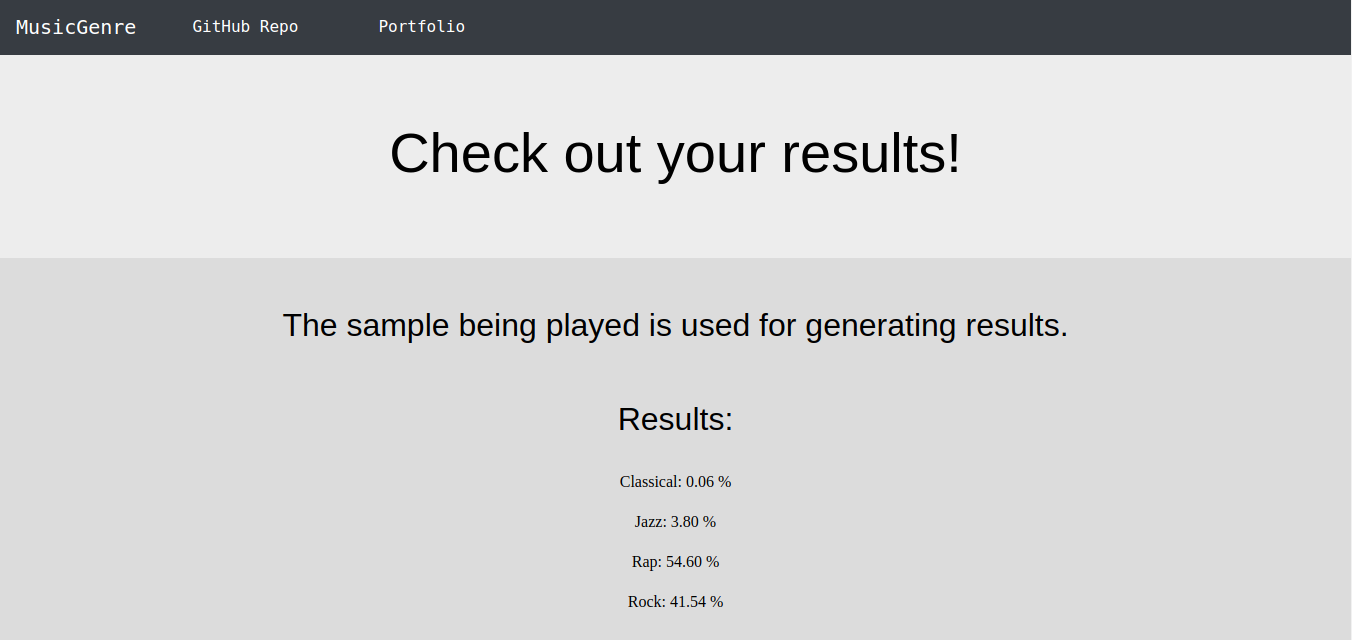
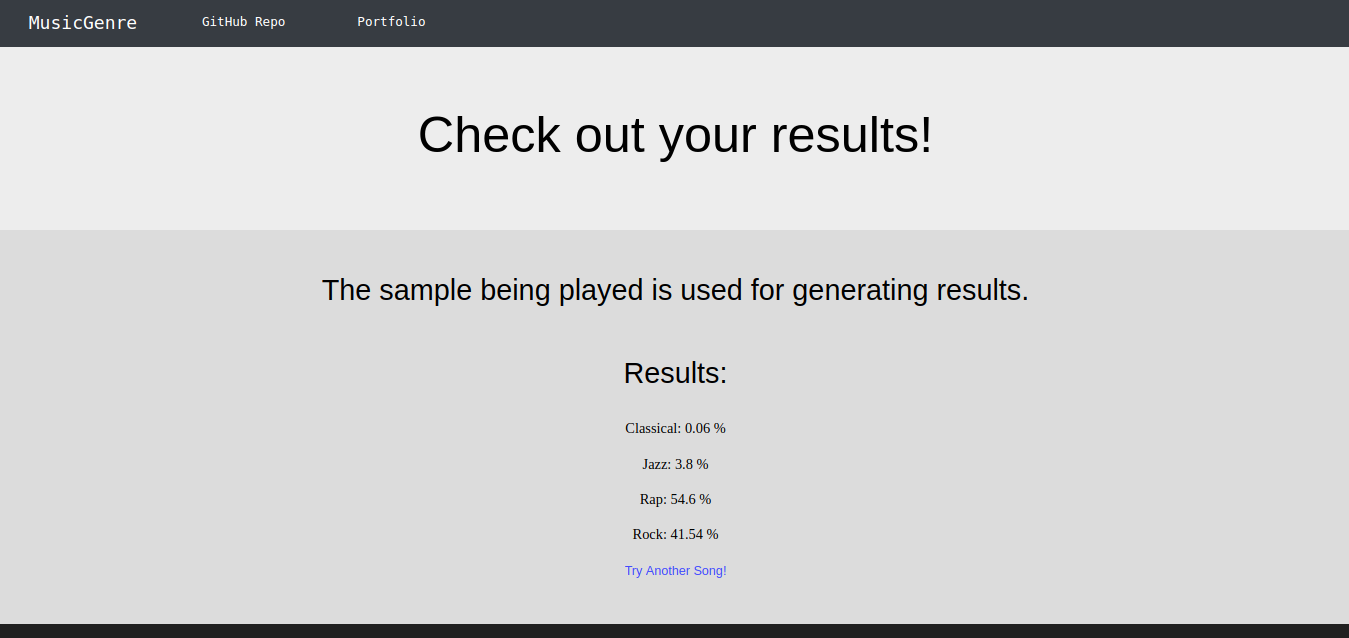
fixed demo issues

diff --git a/demo/templates/main_navbar.html b/demo/templates/main_navbar.html
@@ -8,10 +8,10 @@
     <div class="collapse navbar-collapse" id="navbarSupportedContent">
         <ul class="navbar-nav mr-auto">
             <li class="nav-item active">
-                <a class="nav-link" href="https://github.com/billyhsun/MusicGenre">GitHub Repo<span class="sr-only">(current)</span></a>
+                <a class="nav-link" href="https://github.com/billyhsun/MusicGenre" target="_blank"> GitHub Repo<span class="sr-only">(current)</span></a>
             </li>
             <li class="nav-item active">
-                <a class="nav-link" href="https://billyhsun.github.io/portfolio/">Portfolio<span class="sr-only">(current)</span></a>
+                <a class="nav-link" href="https://billyhsun.github.io/portfolio/" target="_blank">Portfolio<span class="sr-only">(current)</span></a>
             </li>
         </ul>
     </div>

diff --git a/demo/templates/test.html b/demo/templates/test.html
@@ -27,30 +27,8 @@
     <p>Rap: {{percentages.Rap}} %</p>
     <p>Rock: {{percentages.Rock}} %</p>
 	<ul id="list"></ul>
-<script>
-$(function() {
 
-   var people = [];
-
-   $.getJSON('demo/static/logistics/results.json', function(data) {
-       $.each(data.person, function(i, f) {
-          var tblRow = "<tr>" + "<td>" + f.Classical + "</td>" +
-           "<td>" + f.Jazz + "</td>" + "<td>" + f.Rap + "</td>" + "<td>" + f.Rock + "</td>" + "</tr>"
-           $(tblRow).appendTo("#userdata tbody");
-     });
-   });
-
-});
-</script>
-
-{% for item in result2 %}
-<tr>
-	<td>{{ item.startchass }}</td>
-	<td>{{ item.cusname }}</td>
-	<td>{{ item.chassistype1 }}</td>
-	<td>{{ item.axleqty }}</td>
-</tr>
-{% endfor %}
+	<a href="/">Try Another Song!</a>
 
 </div>
 

diff --git a/demo/templates/home.html b/demo/templates/home.html
@@ -35,9 +35,9 @@
 </div>
 <div class="container1" style="background-color: #bbbbbb; padding: 4em 0">
     <h2 class="display-6">Or upload the song (mp3 format) here!</h2><br>
-    <form action="http://localhost:5000/uploader" method="POST" enctype="multipart/form-data">
+    <form action="http://localhost:5000/uploader1" method="POST" enctype="multipart/form-data">
         <input type="file" name="file"/>
-        <input type="submit" name="file"/>
+        <input type="submit"/>
     </form>
 </div>
 

diff --git a/demo/demo.py b/demo/demo.py
@@ -10,7 +10,8 @@ import youtube_dl
 import sounddevice as sp
 from preprocess import fourier_transform
 
-logistics_path = './logistics'
+logistics_path = './static/logistics'
+song_path = './static/demo_songs'
 
 
 def download_youtube_song(url):
@@ -49,13 +50,13 @@ def run_demo():
 
     # while True:
     # print(os.getcwd())
-    for filename in os.listdir('./demo_songs'):
+    for filename in os.listdir(song_path):
         if filename == '.DS_Store':
-            os.remove(os.path.join('./demo_songs', filename))
+            os.remove(os.path.join(song_path, filename))
         else:
-            os.rename(os.path.join('./demo_songs', filename), os.path.join('./demo_songs', "curr_song.mp3"))
+            os.rename(os.path.join(song_path, filename), os.path.join(song_path, "curr_song.mp3"))
 
-    mp3_path = os.path.join("./demo_songs", "curr_song.mp3")
+    mp3_path = os.path.join(song_path, "curr_song.mp3")
     # print(mp3_path)
     song_array = get_cut_sample(mp3_path)
     sp.play(song_array, 22050)
@@ -74,23 +75,26 @@ def run_demo():
         r[genres[i]] = str(round(float(results[0][i]) * 100, 2))
         confidence.append(round(float(results[0][i]), 4))
 
-    with open('./logistics/results.json', 'w') as fp:
+    with open('./static/logistics/results.json', 'w') as fp:
         json.dump(r, fp)
 
     for i in range(0, len(results[0])):
         print(genres[i], ":", confidence[i], " -- ")
     print('\n')
 
-    for filename in os.listdir('./demo_songs'):
-        os.remove(os.path.join('./demo_songs', filename))
+    for filename in os.listdir(song_path):
+        os.remove(os.path.join(song_path, filename))
 
     return r
 
 
 def run_from_youtube(mp3_path):
-    os.chdir('static/demo_songs')
     # print(os.getcwd())
+    # print(os.path.exists(song_path))
+    if ~os.path.exists(song_path):
+        os.chdir(song_path)
     download_youtube_song(mp3_path)
+    os.chdir('..')
     os.chdir('..')
 
     conf = run_demo()

diff --git a/demo/app.py b/demo/app.py
@@ -12,8 +12,10 @@ app.config['UPLOAD_FOLDER'] = input_dir
 # Route for home or index
 @app.route('/')
 def home():
-    shutil.rmtree('./static/demo_songs')
-    os.mkdir('./static/demo_songs')
+    # if os.path.exists('./static/demo_songs'):
+    #     shutil.rmtree('./static/demo_songs')
+    # if ~os.path.exists('./static/demo_songs'):
+    #     os.mkdir('./static/demo_songs')
     return render_template('home.html')
 
 
@@ -26,19 +28,15 @@ def from_youtube():
     return render_template('test.html', percentages=conf)
 
 
-@app.route('/uploader', methods=['GET', 'POST'])
+@app.route('/uploader1', methods=['GET', 'POST'])
 def upload_file():
     conf = {}
     if request.method == 'POST':
         f = request.files['file']
+        print(os.getcwd())
         f.save(os.path.join(app.config['UPLOAD_FOLDER'], f.filename))
         conf = demo.run_demo()
     return render_template('test.html', percentages=conf)
-
-
-# @app.route('/test', methods=['GET'])
-# def test():
-#     return render_template('test.html', percentages=request.args.get('conf'))
 
 
 if __name__ == '__main__':
